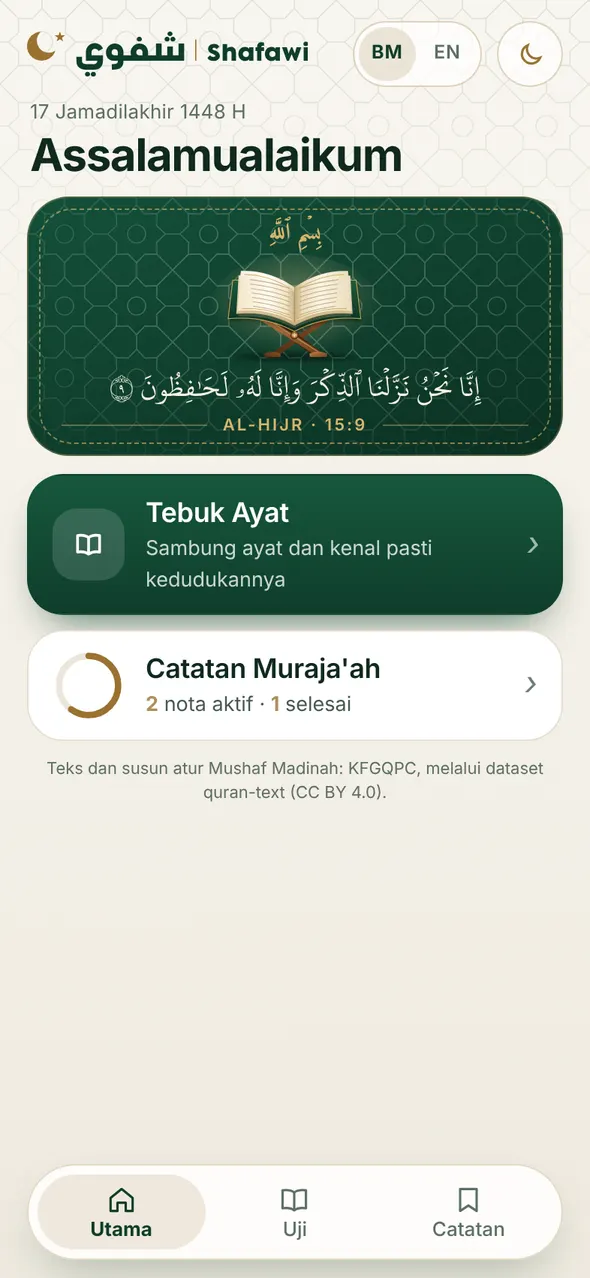
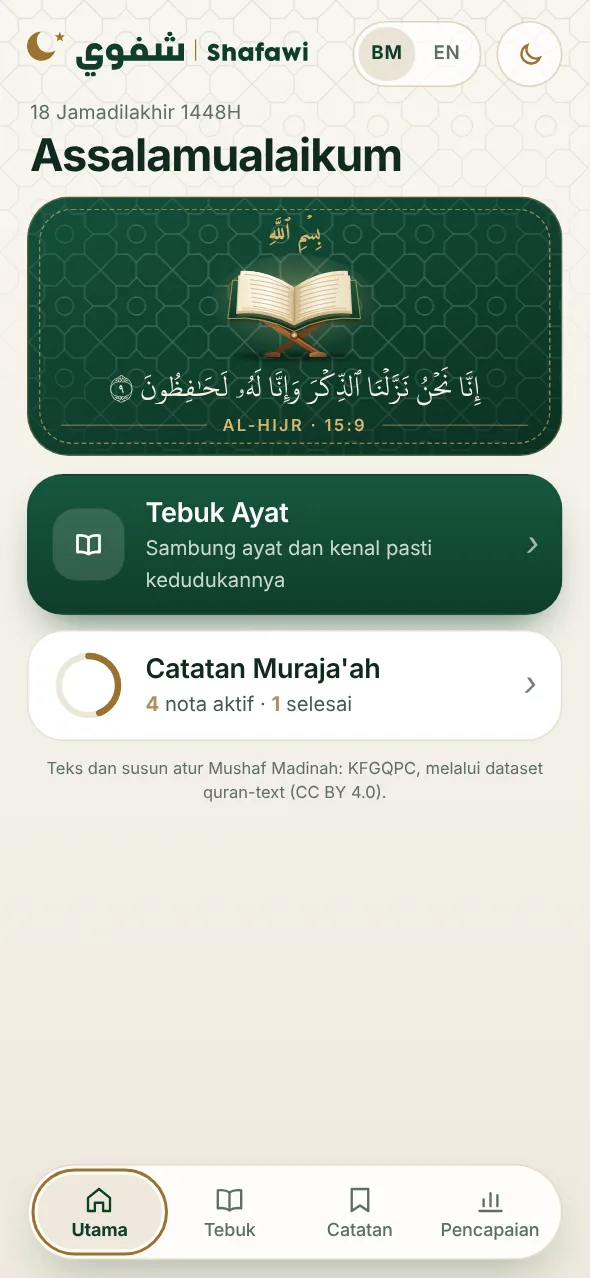
Kemas kini halaman pengenalan: skor, Pencapaian, gambar terkini (#34)
* Tambah halaman pengenalan di /pengenalan/

Halaman pengenalan Shafawi (dari dashboard) kini dihoskan bersama app.
Butang Buka app terus ke app. Service worker tidak cache halaman ini
(thebook-v31). sitemap.xml ditambah /pengenalan/.

Claude-Session: https://claude.ai/code/session_017x16e1D4jJG8ToqADSe8sT

* Kemas kini halaman pengenalan: skor, Pencapaian, gambar skrin terkini

- Bahagian baharu Skor & Pencapaian (gelaran Mumtaz hingga Maqbul, graf 7 hari)
- Teks langkah dikemas kini (+1 markah, nota cara kedudukan dinilai)
- Kategori Salah teka surah / Salah kedudukan, tarikh Hijrah JAKIM
- Semua gambar skrin diambil semula dari app terkini (4 tab)

Claude-Session: https://claude.ai/code/session_017x16e1D4jJG8ToqADSe8sT

* Jarak perenggan kategori Catatan

Claude-Session: https://claude.ai/code/session_017x16e1D4jJG8ToqADSe8sT

---------

diff --git a/pengenalan/index.html b/pengenalan/index.html
@@ -93,6 +93,7 @@ h3{font-size:clamp(20px,2vw,24px);line-height:1.12;letter-spacing:-.015em;margin
 .three figcaption span{display:block;font-weight:400;color:var(--mut);font-size:14px}
 .cats{display:flex;flex-wrap:wrap;gap:8px;margin:20px 0}
 .cats span{padding:7px 13px;border-radius:999px;background:#f3ead6;color:var(--gold);font-weight:650;font-size:14px}
+.cats span.auto{background:#e3efe6;color:var(--hi)}
 .reps{display:flex;align-items:center;gap:12px;margin-top:14px;color:var(--mut);font-size:15px}
 .reps i{display:flex;gap:5px}.reps u{width:22px;height:6px;border-radius:3px;background:var(--gold)}.reps u.o{background:var(--line)}
 .note{font-size:13px;color:var(--mut);margin-top:18px}
@@ -153,7 +154,7 @@ h3{font-size:clamp(20px,2vw,24px);line-height:1.12;letter-spacing:-.015em;margin
    <img class="icon" src="img/icon.png" alt="Ikon Shafawi">
    
    <h1>Uji <em>hafazan Quran</em> terus dari telefon</h1>
-   <p class="lead">Shafawi memaparkan satu ayat. Anda sambung bacaan dari ingatan, teka surahnya, kemudian teka di mana ayat itu terletak dalam Mushaf Madinah. Ayat yang selalu tersangkut dicatat untuk diulang.</p>
+   <p class="lead">Shafawi memaparkan satu ayat. Anda sambung bacaan dari ingatan, teka surahnya, kemudian teka di mana ayat itu terletak dalam Mushaf Madinah. Setiap jawapan diberi markah, dan ayat yang tersilap boleh terus disimpan ke Catatan untuk diulang.</p>
    <div class="cta"><a class="link" href="../"><svg viewBox="0 0 24 24" fill="none" stroke="currentColor" stroke-width="2.2" stroke-linecap="round"><rect x="5" y="11" width="14" height="10" rx="2"/><path d="M8 11V8a4 4 0 018 0v3"/></svg>zulfikarair5-ops.github.io/Shafawi</a><span class="say">Say it. Prove it. Keep it.</span></div>
   </div>
   <div class="stage">
@@ -168,8 +169,8 @@ h3{font-size:clamp(20px,2vw,24px);line-height:1.12;letter-spacing:-.015em;margin
  <div class="in stats">
   <div class="st"><b>604</b><span>muka surat Mushaf Madinah, 15 baris</span></div>
   <div class="st"><b>6,236</b><span>ayat, riwayat Hafs, Rasm Uthmani</span></div>
+  <div class="st"><b>2</b><span>markah setiap soalan: surah dan kedudukan</span></div>
   <div class="st"><b>7</b><span>cara memilih ayat soalan</span></div>
-  <div class="st"><b>2</b><span>bahasa: Melayu dan English</span></div>
   <div class="st"><b>0</b><span>akaun. Berfungsi tanpa internet selepas dibuka sekali</span></div>
  </div>
 </section>
@@ -180,8 +181,8 @@ h3{font-size:clamp(20px,2vw,24px);line-height:1.12;letter-spacing:-.015em;margin
   <h2>Uji hafazan, <em>kemudian ulang</em> yang lemah</h2>
   <p class="lead">Shafawi dibina di atas dua ciri yang saling melengkapi.</p>
   <div class="feat">
-   <a class="fc g" href="#uji"><span class="fi"><svg viewBox="0 0 24 24" fill="none" stroke="currentColor" stroke-width="2" stroke-linecap="round" stroke-linejoin="round"><path d="M12 7c-2-1.6-5-2-8-1.5v12c3-.5 6 0 8 1.5 2-1.5 5-2 8-1.5v-12c-3-.5-6-.1-8 1.5zM12 7v12"/></svg></span><div class="lbl">Ciri utama 1</div><h3>Tebuk Ayat</h3><p>App papar satu ayat. Anda sambung dari ingatan, kemudian buktikan anda tahu di mana ia berada.</p><ul><li>7 mod: 30 juzuk, juzuk, surah, julat muka surat dan lain-lain</li><li>Kenal pasti surah daripada 4 pilihan</li><li>Teka kedudukan ayat pada Mushaf Madinah, lihat muka surat penuh</li></ul><span class="more">Lihat 4 langkahnya &darr;</span></a>
-   <a class="fc" href="#catatan"><span class="fi"><svg viewBox="0 0 24 24" fill="none" stroke="currentColor" stroke-width="2" stroke-linecap="round" stroke-linejoin="round"><path d="M4 20h4L19 9l-4-4L4 16zM14 6l4 4"/></svg></span><div class="lbl">Ciri utama 2</div><h3>Catatan <em>Muraja'ah</em></h3><p>Ayat yang tersangkut dicatat supaya diulang sehingga benar-benar lekat.</p><ul><li>4 kategori: Ayat Mutasyabihat, Perkataan, Kepala ayat, Kepala muka surat</li><li>5 kotak ulangan, cukup 5 nota ditanda selesai</li><li>Mod soalan "Dari nota" menguji ayat sebelum setiap ayat lemah</li></ul><span class="more">Lihat Catatan &darr;</span></a>
+   <a class="fc g" href="#uji"><span class="fi"><svg viewBox="0 0 24 24" fill="none" stroke="currentColor" stroke-width="2" stroke-linecap="round" stroke-linejoin="round"><path d="M12 7c-2-1.6-5-2-8-1.5v12c3-.5 6 0 8 1.5 2-1.5 5-2 8-1.5v-12c-3-.5-6-.1-8 1.5zM12 7v12"/></svg></span><div class="lbl">Ciri utama 1</div><h3>Tebuk Ayat</h3><p>App papar satu ayat. Anda sambung dari ingatan, kemudian buktikan anda tahu di mana ia berada.</p><ul><li>7 mod: 30 juzuk, juzuk, surah, julat muka surat dan lain-lain</li><li>Kenal pasti surah daripada 4 pilihan</li><li>Teka kedudukan ayat pada Mushaf Madinah, lihat muka surat penuh</li><li>Skor setiap sesi, dengan gelaran dan graf dalam tab Pencapaian</li></ul><span class="more">Lihat 4 langkahnya &darr;</span></a>
+   <a class="fc" href="#catatan"><span class="fi"><svg viewBox="0 0 24 24" fill="none" stroke="currentColor" stroke-width="2" stroke-linecap="round" stroke-linejoin="round"><path d="M4 20h4L19 9l-4-4L4 16zM14 6l4 4"/></svg></span><div class="lbl">Ciri utama 2</div><h3>Catatan <em>Muraja'ah</em></h3><p>Ayat yang tersangkut dicatat supaya diulang sehingga benar-benar lekat.</p><ul><li>4 kategori: Ayat Mutasyabihat, Perkataan, Kepala ayat, Kepala muka surat</li><li>Ayat yang salah dalam sesi boleh disimpan terus dengan satu tekan</li><li>5 kotak ulangan, cukup 5 ulangan nota ditanda selesai</li><li>Mod soalan "Dari nota" menguji ayat sebelum setiap ayat lemah</li></ul><span class="more">Lihat Catatan &darr;</span></a>
   </div>
  </div>
 </section>
@@ -193,9 +194,30 @@ h3{font-size:clamp(20px,2vw,24px);line-height:1.12;letter-spacing:-.015em;margin
   <p class="lead">Setiap soalan menguji bacaan, surah dan letak ayat pada muka surat.</p>
   <div class="flow">
    <div class="step"><div class="ph"><div class="scr"><div class="sb"><span>9:41</span><i><u></u></i></div><img src="img/03-soalan-light.webp" alt="Skrin soalan"></div></div><div><div class="lbl"><span class="pill">1</span>Langkah 1</div><h3>Sambung <em>ayat</em></h3><p>Baca sambungannya dari ingatan. Buka ayat seterusnya atau sebelumnya untuk menyemak.</p></div></div>
-   <div class="step"><div class="ph"><div class="scr"><div class="sb"><span>9:41</span><i><u></u></i></div><img src="img/04-surah-light.webp" alt="Kenal pasti surah"></div></div><div><div class="lbl"><span class="pill">2</span>Langkah 2</div><h3>Kenal pasti <em>surah</em></h3><p>Empat pilihan, tiga daripadanya surah berdekatan supaya benar-benar teruji.</p></div></div>
-   <div class="step"><div class="ph"><div class="scr"><div class="sb"><span>9:41</span><i><u></u></i></div><img src="img/05-teka-light.webp" alt="Kenal pasti kedudukan"></div></div><div><div class="lbl"><span class="pill">3</span>Langkah 3</div><h3>Kenal pasti <em>kedudukan</em></h3><p>Muka kiri atau kanan, atas atau bawah. Tekan tempat ayat itu bermula.</p></div></div>
-   <div class="step"><div class="ph"><div class="scr"><div class="sb"><span>9:41</span><i><u></u></i></div><img src="img/06-jawapan-light.webp" alt="Skrin jawapan"></div></div><div><div class="lbl"><span class="pill">4</span>Langkah 4</div><h3>Lihat <em>jawapan</em></h3><p>Keputusan kedudukan ayat, dengan muka surat penuh dan ayat soalan berwarna. Selak muka sebelum dan selepas.</p></div></div>
+   <div class="step"><div class="ph"><div class="scr"><div class="sb"><span>9:41</span><i><u></u></i></div><img src="img/04-surah-light.webp" alt="Kenal pasti surah"></div></div><div><div class="lbl"><span class="pill">2</span>Langkah 2</div><h3>Kenal pasti <em>surah</em></h3><p>Empat pilihan, tiga daripadanya surah berdekatan supaya benar-benar teruji. Betul, dapat 1 markah.</p></div></div>
+   <div class="step"><div class="ph"><div class="scr"><div class="sb"><span>9:41</span><i><u></u></i></div><img src="img/05-teka-light.webp" alt="Kenal pasti kedudukan"></div></div><div><div class="lbl"><span class="pill">3</span>Langkah 3</div><h3>Kenal pasti <em>kedudukan</em></h3><p>Muka kiri atau kanan, atas atau bawah. App menilai ikut baris perkataan pertama ayat itu.</p></div></div>
+   <div class="step"><div class="ph"><div class="scr"><div class="sb"><span>9:41</span><i><u></u></i></div><img src="img/06-jawapan-light.webp" alt="Skrin jawapan"></div></div><div><div class="lbl"><span class="pill">4</span>Langkah 4</div><h3>Lihat <em>jawapan</em></h3><p>Keputusan kedudukan dan 1 markah lagi, dengan muka surat penuh dan ayat soalan berwarna emas.</p></div></div>
+  </div>
+ </div>
+</section>
+
+<section class="band" id="skor">
+ <div class="in split">
+  <div>
+   <div class="lbl">Skor &middot; Pencapaian</div>
+   <h2>Setiap sesi ada <em>markah</em></h2>
+   <p class="lead">Skor berjalan di penjuru soalan. Tekan <b>Tamat sesi</b> untuk lihat ringkasan: peratus, gelaran, berapa surah dan kedudukan yang betul, serta senarai ayat untuk diulang.</p>
+   <ol class="list">
+    <li><span class="pill" style="background:var(--gold)">1</span><div><b>Mumtaz</b><span>85 hingga 100%</span></div></li>
+    <li><span class="pill" style="background:var(--gold)">2</span><div><b>Jayyid Jiddan</b><span>70 hingga 84%</span></div></li>
+    <li><span class="pill" style="background:var(--gold)">3</span><div><b>Jayyid</b><span>50 hingga 69%</span></div></li>
+    <li><span class="pill" style="background:var(--gold)">4</span><div><b>Maqbul</b><span>Bawah 50%. Teruskan usaha</span></div></li>
+   </ol>
+   <p class="lead" style="margin-top:20px">Tab <b>Pencapaian</b> menunjukkan graf 7 hari, purata skor dan setiap sesi lepas mengikut hari, walaupun beberapa sesi dalam sehari.</p>
+  </div>
+  <div class="pics two">
+   <div class="ph"><div class="scr"><div class="sb"><span>9:41</span><i><u></u></i></div><img src="img/10-ringkasan-light.webp" alt="Ringkasan Tamat sesi"></div></div>
+   <div class="ph"><div class="scr"><div class="sb"><span>9:41</span><i><u></u></i></div><img src="img/11-pencapaian-light.webp" alt="Tab Pencapaian"></div></div>
   </div>
  </div>
 </section>
@@ -206,7 +228,7 @@ h3{font-size:clamp(20px,2vw,24px);line-height:1.12;letter-spacing:-.015em;margin
   <div>
    <div class="lbl">Pilih mod</div>
    <h2>Tujuh cara <em>memilih ayat</em></h2>
-   <p class="lead">Uji seluruh Quran, atau fokus pada bahagian yang sedang diulang.</p>
+   <p class="lead">Uji seluruh Quran, atau fokus pada bahagian yang sedang diulang. Setiap soalan 2 markah: surah betul 1 markah, kedudukan betul 1 markah.</p>
    <ol class="list">
     <li><span class="pill">1</span><div><b>30 juzuk</b><span>Mana-mana ayat dalam Quran</span></div></li>
     <li><span class="pill">2</span><div><b>Juzuk</b><span>Pilih satu juzuk</span></div></li>
@@ -226,7 +248,8 @@ h3{font-size:clamp(20px,2vw,24px);line-height:1.12;letter-spacing:-.015em;margin
    <div class="lbl">Ciri utama 2 &middot; Catatan</div>
    <h2>Catatan <em>Muraja'ah</em></h2>
    <p class="lead">Ayat yang tersangkut tidak dilupakan. Pilih surah dan ayat, teks ayat terus dipaparkan, kemudian pilih kategori dan tulis catatan.</p>
-   <div class="cats"><span>Ayat Mutasyabihat</span><span>Perkataan</span><span>Kepala ayat</span><span>Kepala muka surat</span></div>
+   <div class="cats"><span>Ayat Mutasyabihat</span><span>Perkataan</span><span>Kepala ayat</span><span>Kepala muka surat</span><span class="auto">Salah teka surah</span><span class="auto">Salah kedudukan</span></div>
+   <p class="lead" style="margin-bottom:14px">Dua kategori terakhir diisi sendiri oleh app bila anda simpan ayat yang salah dari sesi Tebuk Ayat.</p>
    <p class="lead">Semua nota tersusun dalam tab <b>Catatan</b> ikut turutan mushaf, dengan penapis Aktif, Selesai dan Semua. Tandakan setiap kali ayat itu diulang.</p>
    <div class="reps"><i><u></u><u></u><u></u><u class="o"></u><u class="o"></u></i>Cukup 5 ulangan, nota ditanda selesai.</div>
    <p class="note">Nota dalam gambar ialah contoh.</p>
@@ -242,7 +265,7 @@ h3{font-size:clamp(20px,2vw,24px);line-height:1.12;letter-spacing:-.015em;margin
  <div class="in" style="text-align:center">
   <div class="lbl" style="justify-content:center">Bahasa dan tema</div>
   <h2>Dua bahasa, <em>siang dan malam</em></h2>
-  <p class="lead" style="margin:0 auto">Tekan BM atau EN untuk tukar bahasa. Mod gelap ikut tetapan telefon, atau tukar sendiri dengan butang bulan.</p>
+  <p class="lead" style="margin:0 auto">Tekan BM atau EN di atas untuk tukar bahasa, termasuk menu bawah: Utama, Tebuk, Catatan dan Pencapaian. Mod gelap ikut tetapan telefon, atau tukar sendiri dengan butang bulan.</p>
   <div class="three">
    <figure><div class="ph"><div class="scr"><div class="sb"><span>9:41</span><i><u></u></i></div><img src="img/01-home-light.webp" alt="Bahasa Melayu, mod cerah"></div></div><figcaption>Bahasa Melayu<span>Zamrud Siang</span></figcaption></figure>
    <figure><div class="ph"><div class="scr"><div class="sb"><span>9:41</span><i><u></u></i></div><img src="img/09-home-en-light.webp" alt="English, mod cerah"></div></div><figcaption>English<span>Zamrud Siang</span></figcaption></figure>
@@ -282,6 +305,8 @@ h3{font-size:clamp(20px,2vw,24px);line-height:1.12;letter-spacing:-.015em;margin
    <div class="ck"><i><svg viewBox="0 0 24 24" fill="none" stroke="currentColor" stroke-width="3" stroke-linecap="round" stroke-linejoin="round"><path d="M5 12.5l4.5 4.5L19 7.5"/></svg></i><div><b>Skrin penuh, buka pantas</b><span>Terbuka tanpa bar pelayar. Ikon beranimasi kira-kira 1 saat, terus ke skrin utama.</span></div></div>
    <div class="ck"><i><svg viewBox="0 0 24 24" fill="none" stroke="currentColor" stroke-width="3" stroke-linecap="round" stroke-linejoin="round"><path d="M5 12.5l4.5 4.5L19 7.5"/></svg></i><div><b>Percuma, tanpa akaun</b><span>Tiada daftar masuk. Catatan disimpan dalam telefon anda.</span></div></div>
    <div class="ck"><i><svg viewBox="0 0 24 24" fill="none" stroke="currentColor" stroke-width="3" stroke-linecap="round" stroke-linejoin="round"><path d="M5 12.5l4.5 4.5L19 7.5"/></svg></i><div><b>Sandaran sendiri</b><span>Eksport nota ke fail dan import semula bila tukar telefon.</span></div></div>
+   <div class="ck"><i><svg viewBox="0 0 24 24" fill="none" stroke="currentColor" stroke-width="3" stroke-linecap="round" stroke-linejoin="round"><path d="M5 12.5l4.5 4.5L19 7.5"/></svg></i><div><b>Tarikh Hijrah ikut JAKIM</b><span>Skrin utama memaparkan tarikh Hijrah mengikut takwim rasmi Malaysia.</span></div></div>
+   <div class="ck"><i><svg viewBox="0 0 24 24" fill="none" stroke="currentColor" stroke-width="3" stroke-linecap="round" stroke-linejoin="round"><path d="M5 12.5l4.5 4.5L19 7.5"/></svg></i><div><b>Skor kekal dalam telefon</b><span>Setiap sesi direkod dalam tab Pencapaian, tanpa perlu daftar akaun.</span></div></div>
    <div class="ck"><i><svg viewBox="0 0 24 24" fill="none" stroke="currentColor" stroke-width="3" stroke-linecap="round" stroke-linejoin="round"><path d="M5 12.5l4.5 4.5L19 7.5"/></svg></i><div><b>Teks mushaf yang sahih</b><span>Teks dan susun atur oleh KFGQPC (Kompleks Percetakan Mushaf Raja Fahd), riwayat Hafs.</span></div></div>
   </div>
 
